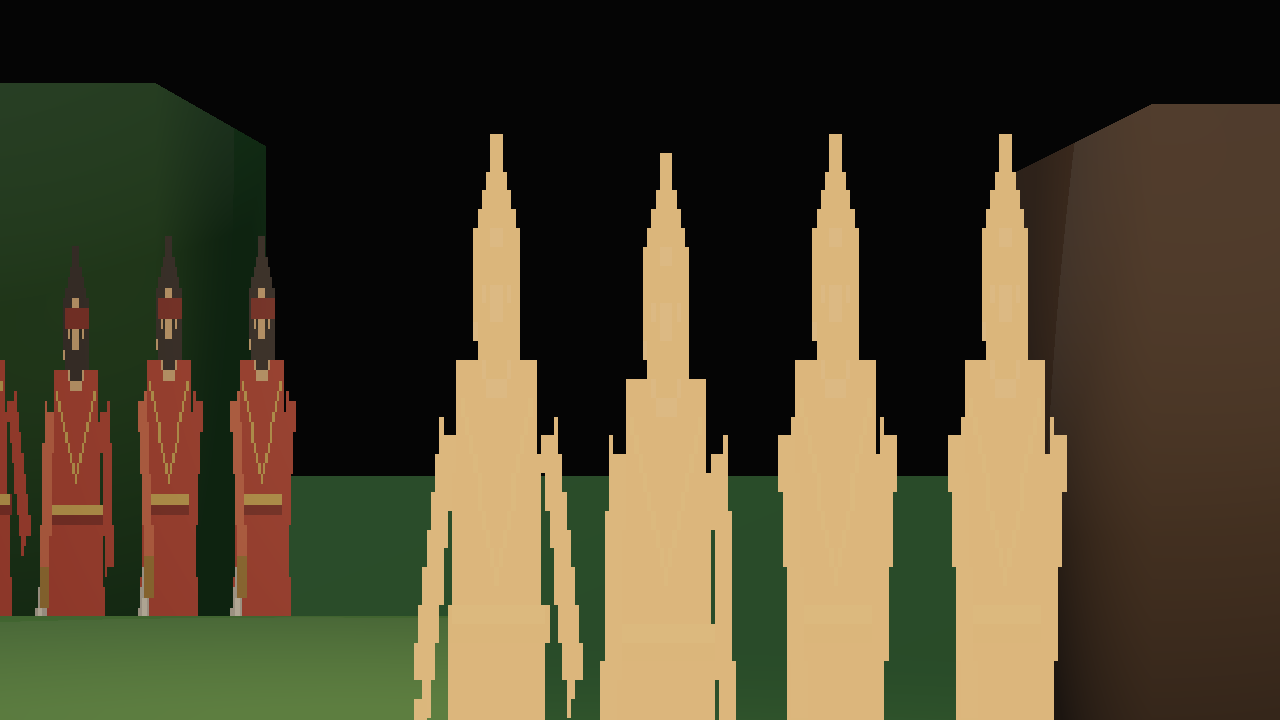
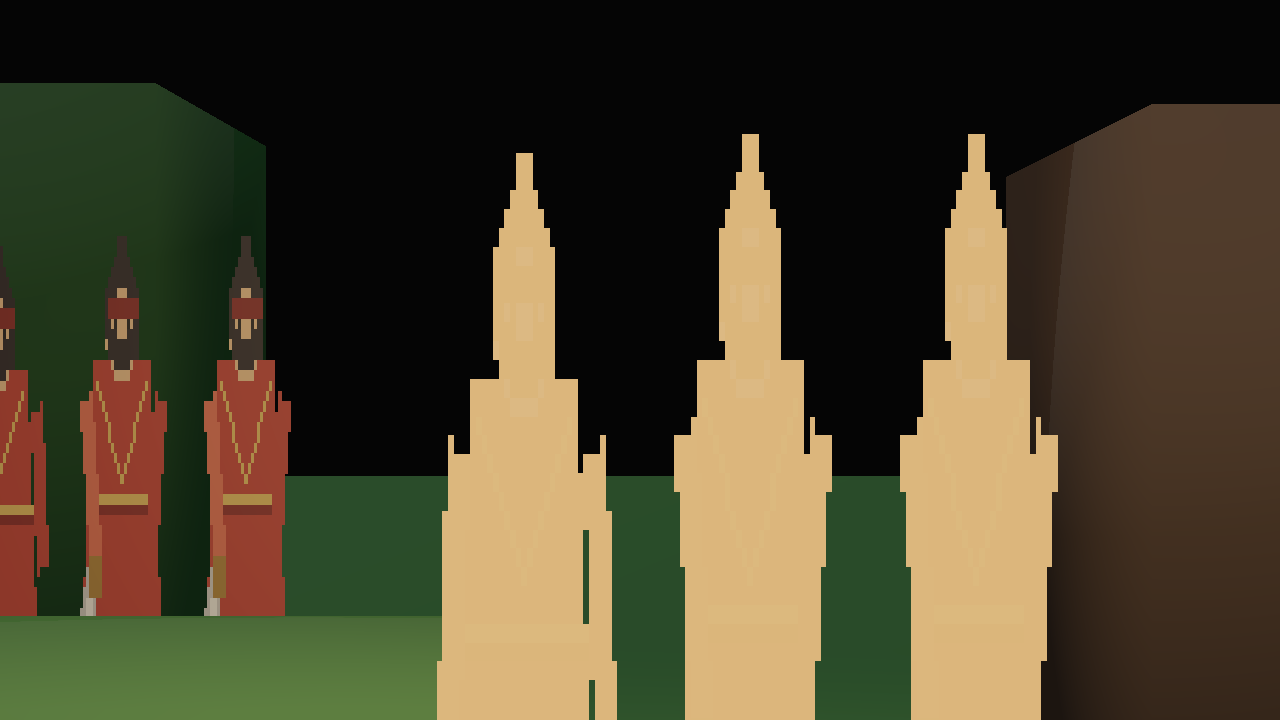
test(hd2d): add reproducible m6 acceptance runner
Add a Python runner that executes the M6 acceptance scene across selected RHI backends with timeouts, captures screenshots, supports DSE_DX11_HEADLESS, and invokes the existing pixel/PSNR/SSIM stats script. Verified locally with normal+headless D3D11.

Changed region(s): [[0.3125, 0.1833, 0.8438, 1.0], [0.0, 0.3056, 0.25, 0.8556]]

diff --git a/templates/hd2d_wuxia/tools/run_hd2d_m6_acceptance.py b/templates/hd2d_wuxia/tools/run_hd2d_m6_acceptance.py
@@ -1,0 +1,79 @@
+#!/usr/bin/env python3
+"""Reproducible HD-2D M6 acceptance runner.
+
+Runs `_hd2d_m6_acceptance_test.lua` on the requested RHI backends, captures
+screenshots into docs/design/hd2d_m6_shots/, verifies exit codes and then
+invokes hd2d_pixel_stats.py for pixel/PSNR/SSIM evidence.
+
+Examples:
+  python run_hd2d_m6_acceptance.py
+  python run_hd2d_m6_acceptance.py --backends opengl,vulkan,d3d11
+  python run_hd2d_m6_acceptance.py --backends d3d11 --headless-d3d11
+"""
+from __future__ import annotations
+
+import argparse
+import os
+import subprocess
+import sys
+from pathlib import Path
+
+ROOT = Path(__file__).resolve().parents[3]
+SHOT_DIR = ROOT / "docs" / "design" / "hd2d_m6_shots"
+STATS = ROOT / "templates" / "hd2d_wuxia" / "tools" / "hd2d_pixel_stats.py"
+SCRIPT = "templates/hd2d_wuxia/scripts/_hd2d_m6_acceptance_test.lua"
+
+
+def run_backend(binary: Path, backend: str, headless: bool, max_frames: int, shot_frame: int) -> Path:
+    env = os.environ.copy()
+    env["DSE_RHI_BACKEND"] = backend
+    env["DSE_MAX_FRAMES"] = str(max_frames)
+    env["DSE_SCREENSHOT_FRAME"] = str(shot_frame)
+    env["DSE_SCREENSHOT_PATH"] = str(SHOT_DIR / (f"m6_{backend}_headless.png" if headless else f"m6_{backend}.png"))
+    env.pop("DSE_RENDER_PIPELINE_PROFILE", None)
+    env.pop("DSE_M6_ORTHO", None)
+    if headless:
+        env["DSE_DX11_HEADLESS"] = "1"
+    else:
+        env.pop("DSE_DX11_HEADLESS", None)
+
+    cmd = [str(binary), f"--script={SCRIPT}"]
+    print(f"[m6] run backend={backend} headless={headless} -> {env['DSE_SCREENSHOT_PATH']}")
+    proc = subprocess.run(cmd, cwd=ROOT, env=env, text=True, encoding="utf-8", errors="replace", capture_output=True, timeout=180)
+    if proc.returncode != 0:
+        raise RuntimeError(f"{backend} exit={proc.returncode}\nstdout:\n{proc.stdout}\nstderr:\n{proc.stderr}")
+    shot = Path(env["DSE_SCREENSHOT_PATH"])
+    if not shot.exists():
+        raise RuntimeError(f"{backend} did not write screenshot: {shot}")
+    return shot
+
+
+def main() -> int:
+    parser = argparse.ArgumentParser()
+    parser.add_argument("--binary", default="bin/dsengine_lua_debug.exe")
+    parser.add_argument("--backends", default="opengl,vulkan,d3d11")
+    parser.add_argument("--headless-d3d11", action="store_true")
+    parser.add_argument("--max-frames", type=int, default=18)
+    parser.add_argument("--shot-frame", type=int, default=15)
+    args = parser.parse_args()
+
+    binary = (ROOT / args.binary).resolve()
+    if not binary.exists():
+        print(f"missing binary: {binary}", file=sys.stderr)
+        return 2
+    SHOT_DIR.mkdir(parents=True, exist_ok=True)
+
+    shots: list[Path] = []
+    for backend in [b.strip() for b in args.backends.split(",") if b.strip()]:
+        shots.append(run_backend(binary, backend, False, args.max_frames, args.shot_frame))
+        if backend == "d3d11" and args.headless_d3d11:
+            shots.append(run_backend(binary, backend, True, args.max_frames, args.shot_frame))
+
+    stats_cmd = [sys.executable, str(STATS)] + [str(p) for p in shots]
+    subprocess.run(stats_cmd, cwd=ROOT, check=True)
+    print("[m6] acceptance runner PASS")
+    return 0
+
+
+if __name__ == "__main__":
+    raise SystemExit(main())

diff --git a/docs/design/HD2D_M3M6_REPORT.md b/docs/design/HD2D_M3M6_REPORT.md
@@ -72,7 +72,9 @@
 实现：
 - 新增 `templates/hd2d_wuxia/scripts/_hd2d_m6_acceptance_test.lua`：程序化 3D 地面/台阶/建筑/屋檐/树冠、3 个 Sprite3D atlas 角色、方向光 CSM + 暖点光、emissive bloom、tilt-shift、弱透视/正交相机。
 - `templates/hd2d_wuxia/tools/hd2d_pixel_stats.py`：均值 RGB/luma、bright ratio、warm-emissive ratio、PSNR、global SSIM。
+- `templates/hd2d_wuxia/tools/run_hd2d_m6_acceptance.py`：可复现三后端截图与像素统计 runner；支持 `--headless-d3d11`。
 - `DSE_DX11_HEADLESS=1`：D3D11 走 `D3D11CreateDevice` + 离屏 backbuffer/RTV/DSV，无 DXGI swapchain，Present no-op；M6 验收场景可 headless 输出 `1280x720` PNG。
+- `run_hd2d_m6_acceptance.py --backends d3d11 --headless-d3d11` 本地通过，普通/离屏 D3D11 均输出 1280x720 截图。
 - 未完成：`templates/hd2d_wuxia` 原有战斗/AI/任务/存档层的完整 B+ 表现层迁移尚未完成；当前交付为可复现 B+ 验收底座，原模板逻辑未被破坏。
 
 证据：
